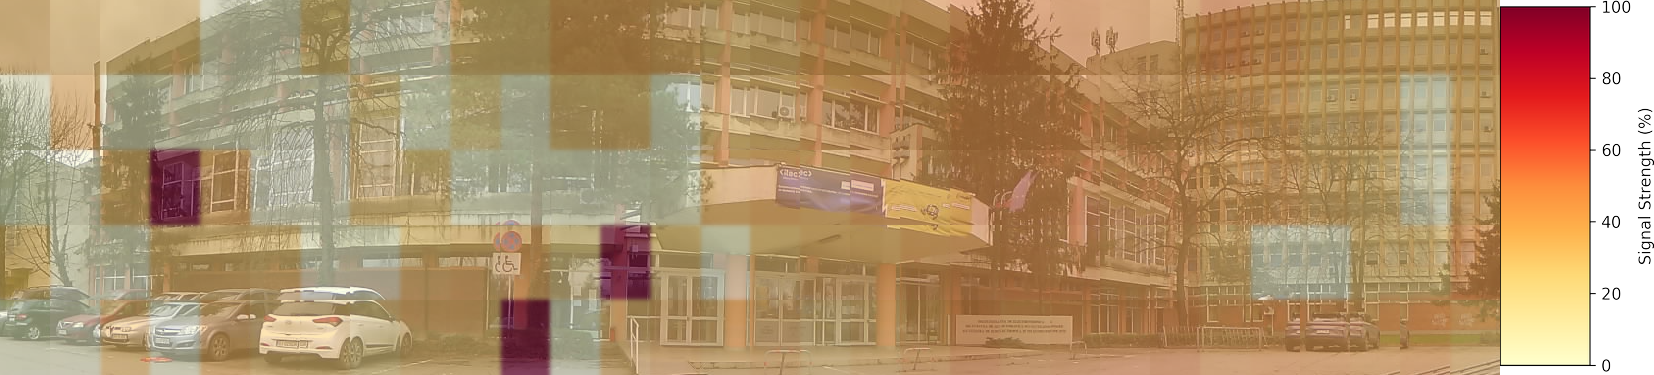
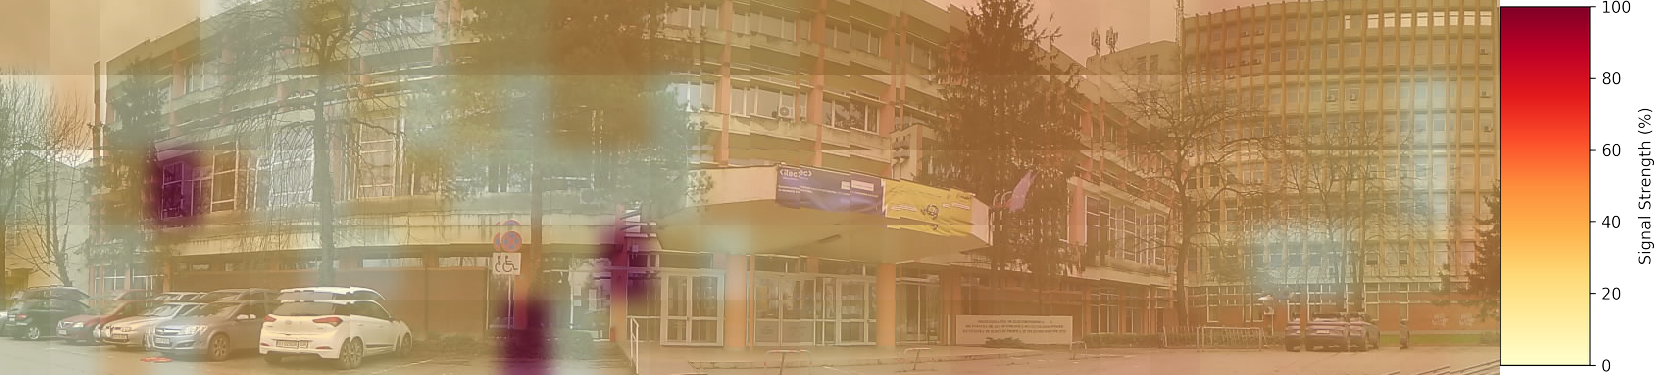
change

Changed region(s): [[0.2775, 0.5573, 0.4008, 1.0], [0.0617, 0.3813, 0.1233, 0.616]]

diff --git a/parse+heatmap.py b/parse+heatmap.py
@@ -494,7 +494,7 @@ def overlay_heatmap_on_image(heatmap_path, final_image_path, output_path,transpa
     final_image = Image.open(final_image_path).convert("RGBA")  # Same here for final image
     colorbar = Image.open("colorbar.png").convert("RGBA")  # Load the colorbar image
     # Apply Gaussian blur to the heatmap
-    heatmap = heatmap.filter(ImageFilter.GaussianBlur(radius=2))
+    heatmap = heatmap.filter(ImageFilter.GaussianBlur(radius=9))
     # Ensure the heatmap and final image are the same size
     if heatmap.size != final_image.size:
         heatmap = heatmap.resize(final_image.size, Image.Resampling.LANCZOS)  # Resize heatmap to match
